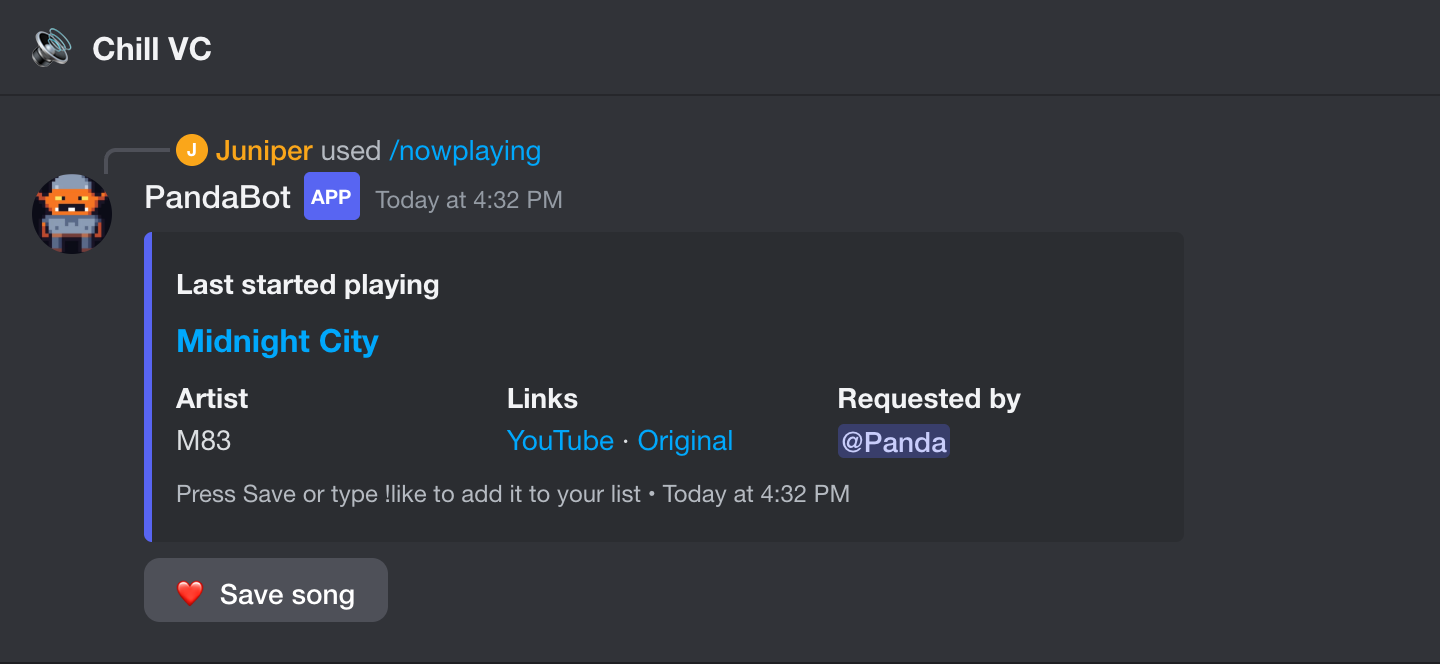
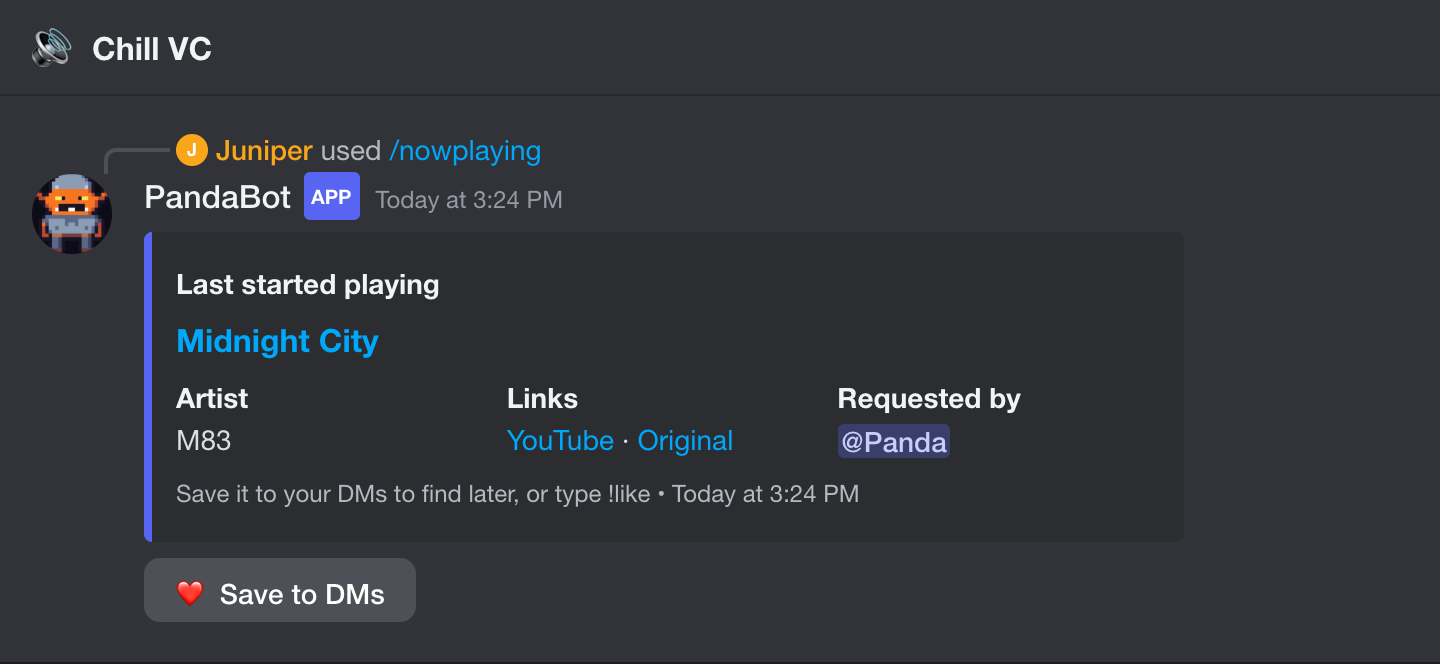
Say where saved songs go: "Save to DMs" button and footer
The now-playing card's button was "Save song" and its footer said "add it
to your list". Cards were reaching people but almost nobody saved, so the
button now reads "Save to DMs" and the footer says the song goes to your
DMs to find later. Same wording in the welcome post, README and site.

p!usage also shows each server's Discord language, to see whether the
quiet servers would need translated text.

Changed region(s): [[0.125, 0.7229, 0.5938, 0.7831], [0.1875, 0.8434, 0.3125, 0.9337], [0.3438, 0.3012, 0.375, 0.3313]]

diff --git a/site/index.html b/site/index.html
@@ -22,14 +22,14 @@
 
   <section class="grid">
     <div class="card"><h3>🎧 Now-playing cards</h3><p>Every song gets a card in the voice channel's chat: title, artist, who requested it, and a YouTube link.</p></div>
-    <div class="card"><h3>❤ One-tap saving</h3><p>Tap the heart, press Save, type <code>!like</code> or use <code>/save</code>. Each save is DMed to you, so your DMs become your playlist.</p></div>
+    <div class="card"><h3>❤ One-tap saving</h3><p>Tap the heart, press Save to DMs, type <code>!like</code> or use <code>/save</code>. Each save is DMed to you, so your DMs become your playlist.</p></div>
     <div class="card"><h3>📊 Stats</h3><p><code>p!stats</code>, <code>p!top</code>, <code>p!dj</code>, <code>p!match @friend</code>, and <code>p!heard</code> for "what was that song?"</p></div>
     <div class="card"><h3>🔌 Other music bots</h3><p>Jockie works out of the box. Add others with <code>/musicbot add</code>.</p></div>
   </section>
 
   <section class="showcase">
     <img class="shot" src="img/commands/now-playing.png" width="720" height="310"
-         alt="PandaBot's now-playing card in a voice channel's chat, with a Save song button">
+         alt="PandaBot's now-playing card in a voice channel's chat, with a Save to DMs button">
     <img class="shot" src="img/commands/dm-card.png" width="720" height="311" loading="lazy"
          alt="A saved song delivered to your DMs by PandaBot">
   </section>

diff --git a/jockie_companion/bot.py b/jockie_companion/bot.py
@@ -153,14 +153,14 @@ def _play_embed(play: Play, heading: str) -> discord.Embed:
         e.add_field(name="Requested by", value=f"<@{play.requester_id}>")
     elif play.requester_name:
         e.add_field(name="Requested by", value=play.requester_name[:1024])
-    e.set_footer(text="Press Save or type !like to add it to your list")
+    e.set_footer(text="Save it to your DMs to find later, or type !like")
     e.timestamp = datetime.fromtimestamp(play.played_at, tz=timezone.utc)
     return e
 
 
 def _save_view(play_id: int) -> discord.ui.View:
     view = discord.ui.View(timeout=None)
-    view.add_item(discord.ui.Button(label="Save song", emoji=HEART, style=discord.ButtonStyle.secondary,
+    view.add_item(discord.ui.Button(label="Save to DMs", emoji=HEART, style=discord.ButtonStyle.secondary,
                                     custom_id=f"{SAVE_PREFIX}{play_id}"))
     return view
 
@@ -265,7 +265,7 @@ def welcome_embed(p: str, problems: list[str], support_server: str = "") -> disc
     lines = [
         "**There's nothing to set up.** Play music with Jockie Music as usual (any Jockie instance works) "
         "and I'll pick it up:",
-        "• A **Now playing** card in the voice channel's chat, with a **Save song** button",
+        "• A **Now playing** card in the voice channel's chat, with a **Save to DMs** button",
         f"• Tap {HEART} under Jockie's song posts, or type `!like`, to save what's playing. "
         "Saved songs are DM'd to you",
         f"• `{p}help` lists everything: `{p}stats`, `{p}top`, `{p}saved`, `{p}history`…",
@@ -316,7 +316,7 @@ def usage_embed(bot: "CompanionBot") -> discord.Embed:
     for gid, g in sorted(joined.items(), key=lambda kv: (
             -(u.servers[kv[0]].plays_7d if kv[0] in u.servers else 0), -(kv[1].member_count or 0))):
         s = u.servers.get(gid)
-        bits = [f"{g.member_count or '?'} members"]
+        bits = [f"{g.member_count or '?'} members", str(getattr(g, "preferred_locale", "") or "?")]
         if s and s.plays:
             bits.append(f"{s.plays_7d} plays/wk")
             if s.saves:

diff --git a/tests/test_bot.py b/tests/test_bot.py
@@ -741,7 +741,8 @@ def test_usage_is_owner_only_and_sent_by_dm(bot, monkeypatch):
     run(bot, bot.on_raw_reaction_add(heart(PANDA.id, bot.store.history(1)[0].message_id)))
     bot._owner_ids = {PANDA.id}
     bot._connection._guilds = {1: SimpleNamespace(id=1, name="Lo-Fi Lounge", member_count=42),
-                               2: SimpleNamespace(id=2, name="Quiet Place", member_count=7)}
+                               2: SimpleNamespace(id=2, name="Quiet Place", member_count=7,
+                                                  preferred_locale=discord.Locale.russian)}
 
     asked = msg(guild, text, PANDA, content="p!usage")
     asyncio.run(bot.on_message(asked))
@@ -749,8 +750,8 @@ def test_usage_is_owner_only_and_sent_by_dm(bot, monkeypatch):
     asked.reply.assert_not_awaited()  # nothing about other servers is posted in the channel
     report = PANDA.dms[-1].embed.description
     assert "**2** servers" in report
-    assert "**Lo-Fi Lounge** · 42 members · 2 plays/wk · 2 saves" in report
-    assert "**Quiet Place** · 7 members · no songs yet" in report
+    assert "**Lo-Fi Lounge** · 42 members · ? · 2 plays/wk · 2 saves" in report
+    assert "**Quiet Place** · 7 members · ru · no songs yet" in report
 
     dms_before = len(LISTENER.dms)
     stranger = msg(guild, text, LISTENER, content="p!usage")

diff --git a/README.md b/README.md
@@ -14,7 +14,7 @@ Music bots like Jockie play songs in voice channels, but once a song ends it's g
 follows the music bot and adds the missing pieces:
 
 - **🎧 Now-playing cards** in the voice channel's own chat: title, artist, who requested it, and a YouTube link.
-- **❤ One-tap saving.** Tap the heart, press Save, type `!like`, or `/save`. Each save is DMed to you,
+- **❤ One-tap saving.** Tap the heart, press **Save to DMs**, type `!like`, or `/save`. Each save is DMed to you,
   so your DMs become your playlist. Unsaving deletes the card.
 - **📊 Stats:** music profiles (`p!stats`), server charts (`p!top`), a "whose picks get saved most"
   leaderboard (`p!dj`), taste matching (`p!match @friend`), and `p!heard` for "what was that song?"
@@ -71,7 +71,7 @@ version for other people, you must share your changes under the same license.
 | How | Where |
 |---|---|
 | Tap ❤ (tap again to unsave) | Jockie's "Started playing", or Jockie's "Added Track" (saves that queued song). A ❤ you add to PandaBot's card works too |
-| **Save song** button | PandaBot's now-playing card, or `/nowplaying` |
+| **Save to DMs** button | PandaBot's now-playing card, or `/nowplaying` |
 | Type `!like` | Any channel |
 | Type just `❤` | Voice-channel chat, the announce channel, or any channel Jockie posts in |
 | `/save` | Any channel |
